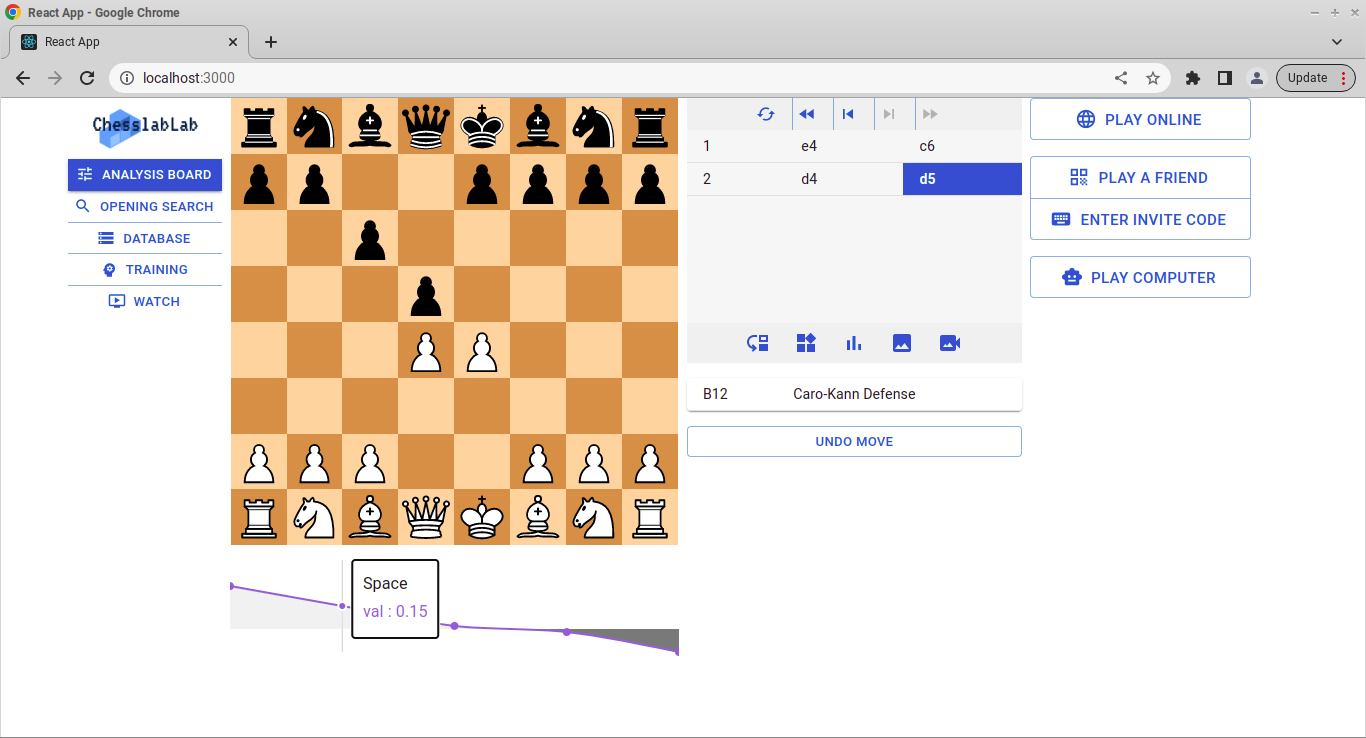
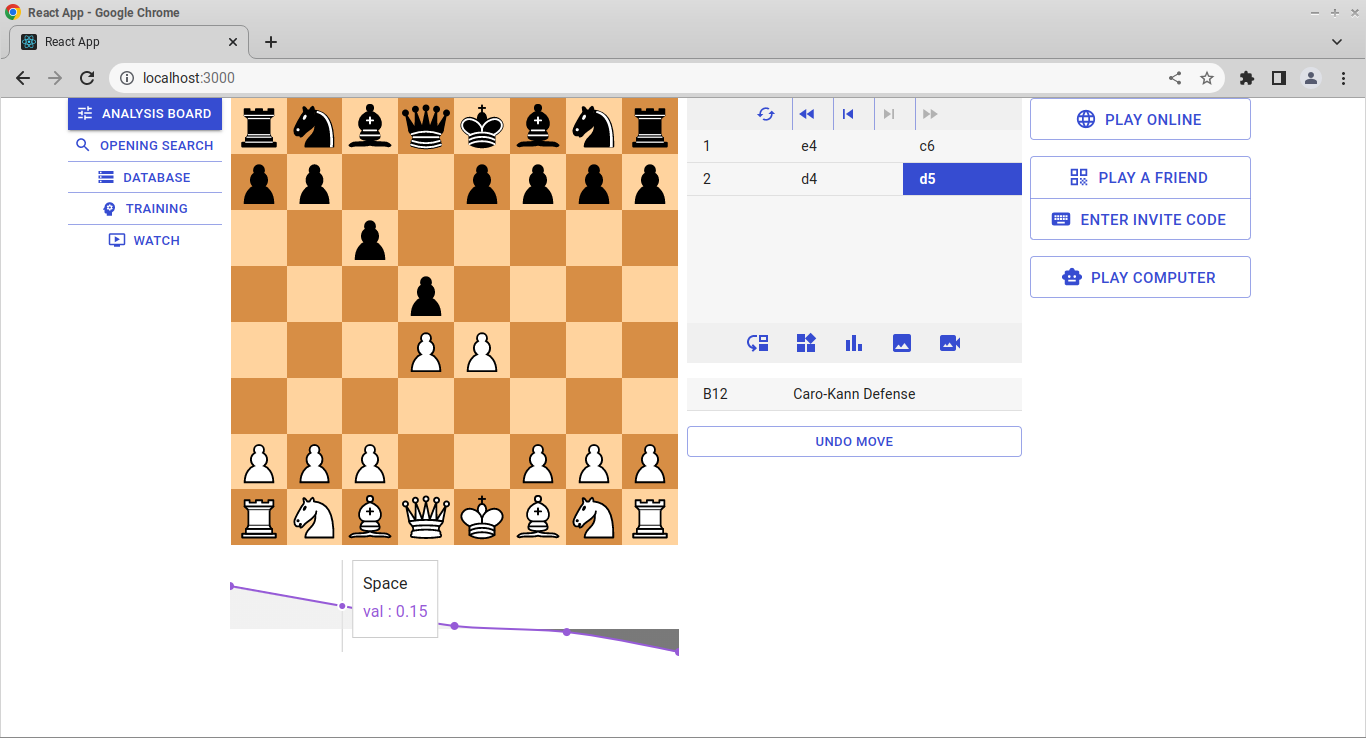
1.1.73

Changed region(s): [[0.0307, 0.1247, 0.1845, 0.4363], [0.8302, 0.0623, 1.0, 0.1247], [0.246, 0.8415, 0.2767, 0.8726]]

diff --git a/src/features/MainButtons.js b/src/features/MainButtons.js
@@ -21,7 +21,6 @@ import MoveDownIcon from '@mui/icons-material/MoveDown';
 import WidgetsIcon from '@mui/icons-material/Widgets';
 import { Button, ButtonGroup, Divider, IconButton, Menu, MenuItem, useMediaQuery } from '@mui/material';
 import { makeStyles } from '@mui/styles';
-import logo from '../assets/img/logo.png';
 import Dispatcher from '../common/Dispatcher';
 import Pgn from '../common/Pgn';
 import Wording from '../common/Wording';
@@ -49,10 +48,6 @@ const useStyles = makeStyles({
     '&:hover': {
       backgroundColor: "#fff !important",
     },
-  },
-  logo: {
-    width: '110px',
-    margin: 'auto',
   },
 });
 
@@ -117,9 +112,6 @@ const MainButtons = () => {
       fullWidth={matches ? false : true}
       disabled={disabled}
     >
-      <IconButton className={classes.iconButton} href="/">
-        <img className={classes.logo} src={logo} />
-      </IconButton>
       <Button
         sx={{ borderRadius: 0 }}
         variant={state.mainButtons.name === mainButtonsConst.ANALYSIS ? "contained" : "text"}

diff --git a/README.md b/README.md
@@ -19,19 +19,13 @@ Figure 1. Analysis Board > Start Position
 Figure 2. Opening Search > ECO Code
 
 ![Figure 3](/src/assets/img/docs/figure-03.png)
-Figure 3. Database > Search
+Figure 3. Heuristics of a game
 
 ![Figure 4](/src/assets/img/docs/figure-04.png)
-Figure 4. Heuristics of a game
+Figure 4. Play a Friend
 
 ![Figure 5](/src/assets/img/docs/figure-05.png)
-Figure 5. Play Online
-
-![Figure 6](/src/assets/img/docs/figure-06.png)
-Figure 6. Play a Friend
-
-![Figure 7](/src/assets/img/docs/figure-07.png)
-Figure 7. Play Computer
+Figure 5. Play Computer
 
 ### Setup
 
